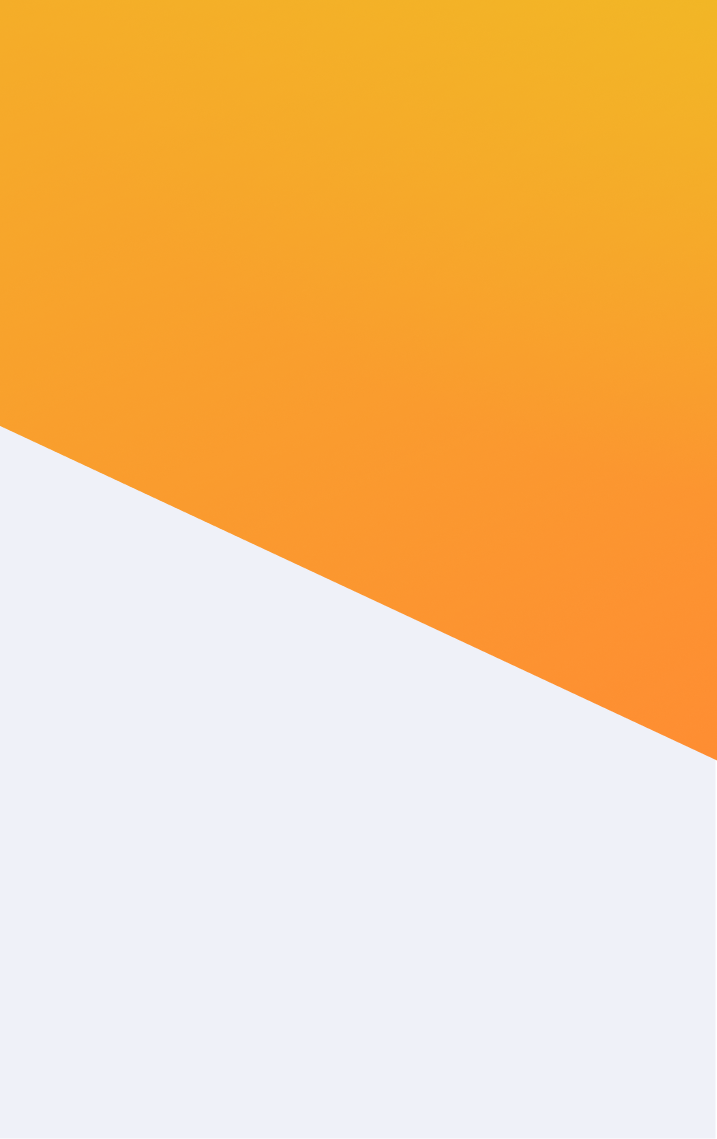
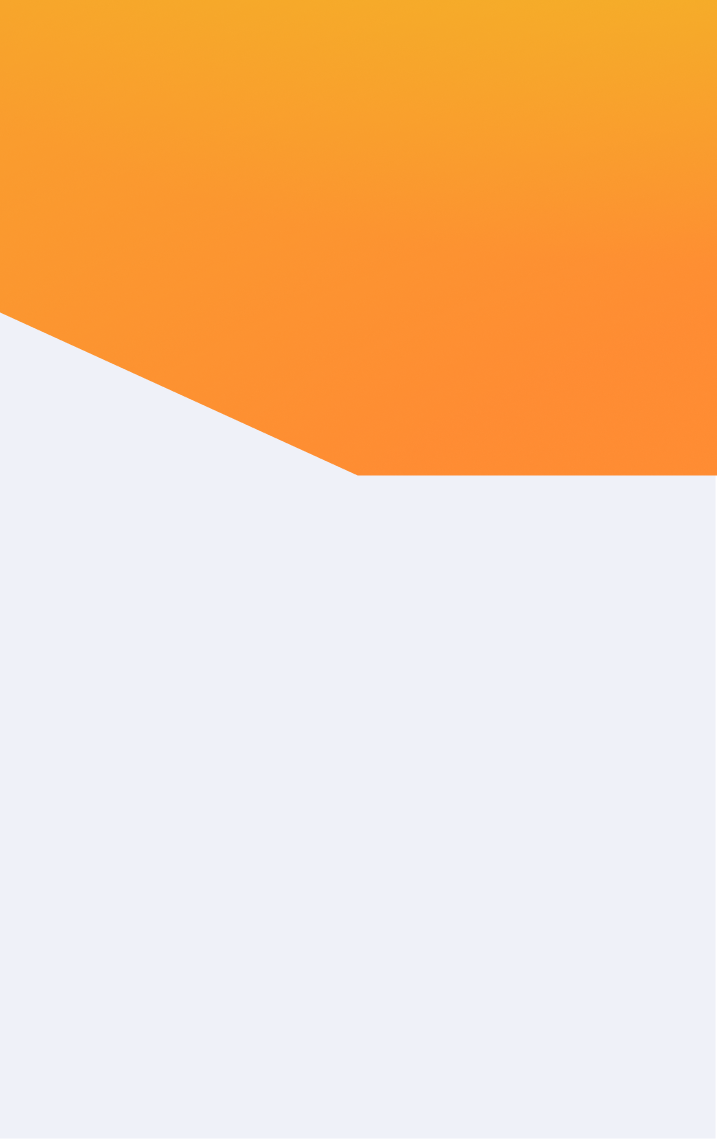
pad rwd

Changed region(s): [[0.0, 0.2766, 1.0, 0.676], [0.9205, 0.2151, 1.0, 0.2766]]

diff --git a/styles.css b/styles.css
@@ -852,10 +852,6 @@ section.media h1 {
   width: var(--summary-title-width);
 }
 
-section.media .splide__list {
-  gap: 1rem;
-}
-
 section.media .splide {
   width: calc((var(--main-width) - var(--summary-title-width)) + (100% - var(--main-width)) / 2);
 }
@@ -975,13 +971,60 @@ p.copyright {
 }
 
 @media screen and (max-width: 1024px) {
+  div.content-container {
+    width: 80%;
+  }
+
+  section.key-visual {
+    height: 700px;
+    background-size: auto 600px;
+    background-position: top center;
+  }
+
+  section.key-visual #scene {
+    height: 100%;
+    padding-bottom: 4rem;
+  }
+
+  section.key-visual .event-title {
+    width: 800px;
+    margin-left: -400px !important;
+    height: 100%;
+  }
+
+  section.key-visual .arrow {
+    height: 100%;
+    background-size: 50px;
+  }
+
+  section.key-visual .line {
+    width: 800px;
+    margin-left: -400px !important;
+    height: 100%;
+  }
+
   div.summary {
     border-bottom: 1px solid var(--primary-blue);
+  }
+
+  div.summary .location-date {
+    width: 100%;
+    background-color: white;
+    padding: 2rem 10%;
+  }
+
+  div.summary .white-bg {
+    display: none;
+  }
+
+  div.summary h1 {
+    margin: 0 10%;
   }
 
   div.summary div.content-container {
     height: unset;
     flex-direction: column;
+    width: 100%;
   }
 
   section.announcement {
@@ -993,12 +1036,16 @@ p.copyright {
   }
 
   section.announcement div.content-container h1 {
-    padding: 1rem 3rem;
+    padding: unset;
     width: unset;
   }
 
+  section.announcement div.content-container .content {
+    padding: 1rem 0;
+  }
+
   section.guests {
-    background-position: center 70%;
+    background-position: center 40%;
   }
 
   .guest-container,
@@ -1007,6 +1054,10 @@ p.copyright {
   .guest-container .guest {
     flex-direction: column;
   }
+  .guest-container .intro {
+    width: 80%;
+    max-width: 550px;
+  }
 
   section.special-guests {
     background-image: url(images/m-o-bg.png);
@@ -1014,5 +1065,112 @@ p.copyright {
 
   section.topic-guests {
     background-image: url(images/m-p-bg.png);
+  }
+  section.case-study-guests {
+    background-image: url(images/m-b-bg.png);
+  }
+
+  section.tech-guests {
+    background-image: url(images/m-w-bg.png);
+  }
+
+  section.agenda .event {
+    width: 70%;
+  }
+  section.agenda .tracks {
+    width: calc(70% - 160px);
+    align-items: stretch;
+  }
+
+  section.agenda .tracks li span {
+    font-size: 0.785rem;
+  }
+
+  section.gifts {
+    padding-bottom: 15rem;
+  }
+
+  section.book {
+    background: none;
+  }
+
+  section.book .content-container {
+    flex-direction: column;
+    width: 100%;
+  }
+
+  section.book .content-container h1 {
+    padding-bottom: 1rem;
+  }
+
+  section.book .content-container .intro {
+    background: url(images/book-o.png) no-repeat center top;
+    background-size: cover;
+    padding: 6rem 10% 3rem;
+    margin-top: -6rem;
+  }
+
+  section.book .content-container .location-date {
+    flex-direction: row;
+  }
+
+  form {
+    padding: 2rem 10% 0;
+    max-width: unset;
+  }
+
+  .guest-container.reverse .splide__arrows,
+  .tech-guests .thumbnail .splide__arrows,
+  .thumbnail .splide__arrows {
+    position: unset;
+  }
+
+  .splide__arrow--prev {
+    left: 1rem !important;
+  }
+
+  .splide__arrow--next {
+    right: 1rem !important;
+  }
+
+  section.media {
+    flex-direction: column;
+  }
+
+  section.media h1 {
+    padding: 0 10% 2rem;
+  }
+
+  section.media .splide {
+    width: 90%;
+    position: relative;
+    left: 10%;
+  }
+
+  section.media .splide__slide h4 {
+    font-size: 1.3rem;
+    height: 54px;
+    line-height: 1.6rem;
+  }
+}
+
+@media screen and (max-width: 768px) {
+  section.agenda .event .time-slot {
+    width: 100px;
+    padding: 1rem 0.5rem;
+    line-height: 1rem;
+  }
+  section.agenda .tracks li span {
+    line-height: 1.2rem;
+  }
+  section.agenda .event {
+    width: 80%;
+  }
+  section.agenda .tracks {
+    width: calc(80% - 100px);
+    left: 50px;
+  }
+  section.agenda .tracks li {
+    padding: 1rem 0.75rem;
   }
 }

diff --git a/index.html b/index.html
@@ -660,9 +660,9 @@
             <div class="agreement">
               <input type="checkbox" name="agreement" id="agreement" />
               <p>
-                我已閱讀並同意 CloudMile<a href="" target="_blank">隱私權政策</a>與<a
-                  href="http://"
-                  target="_blank"
+                我已閱讀並同意 CloudMile<a href="https://mile.cloud/zh/privacy" target="_blank"
+                  >隱私權政策</a
+                >與<a href="https://mile.cloud/zh/personal-information-agreement " target="_blank"
                   >個資同意書</a
                 >
               </p>
@@ -787,9 +787,10 @@
         perPage: 3.5,
         perMove: 1,
         rewind: true,
+        gap: 16,
         updateOnMove: true,
         breakpoints: {
-          768: {
+          1024: {
             perPage: 2.5,
           },
         },
